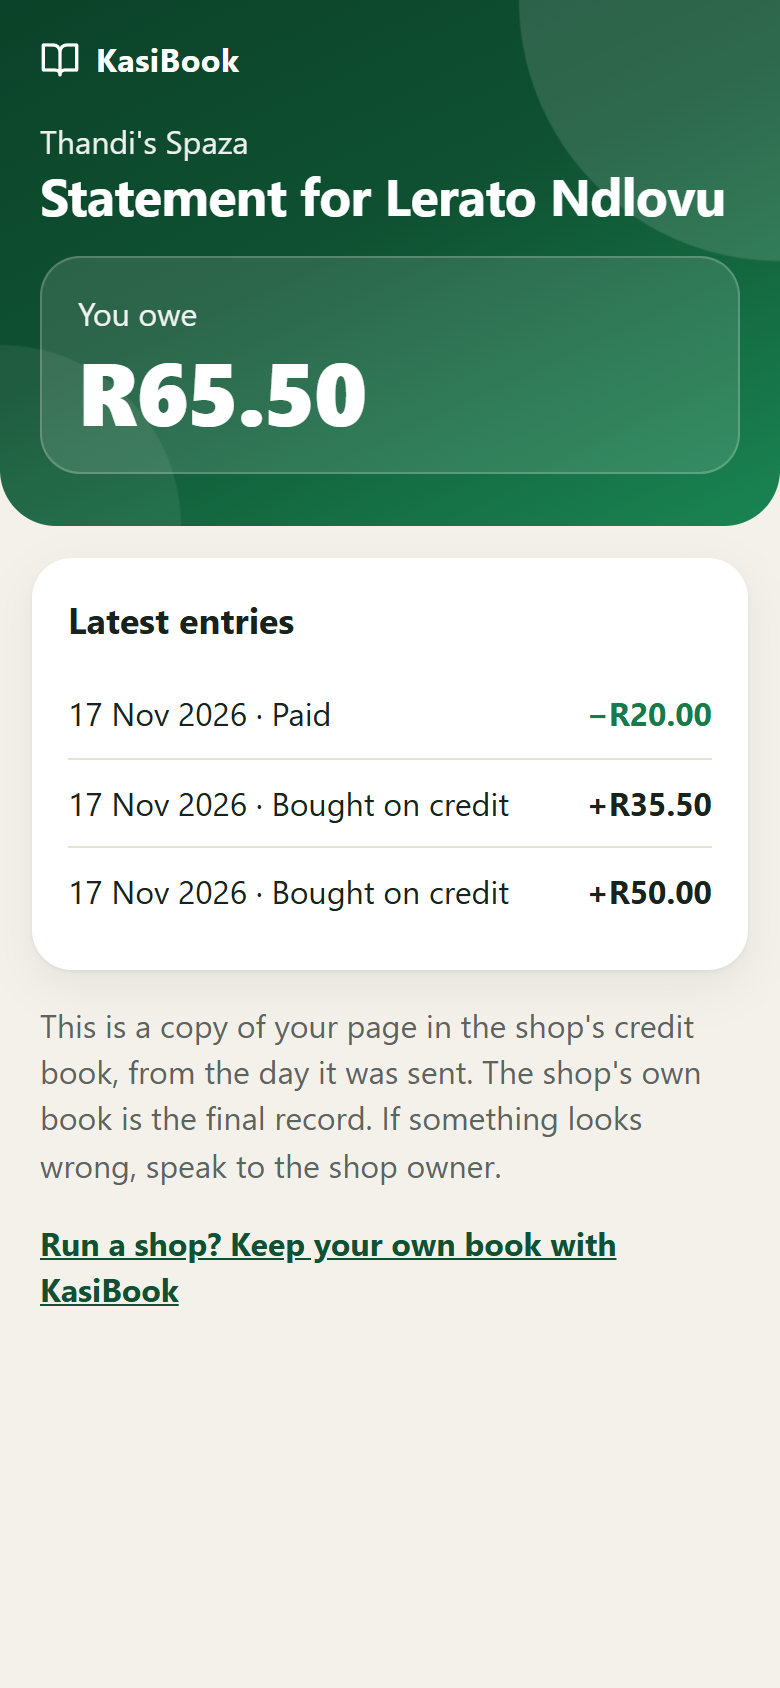
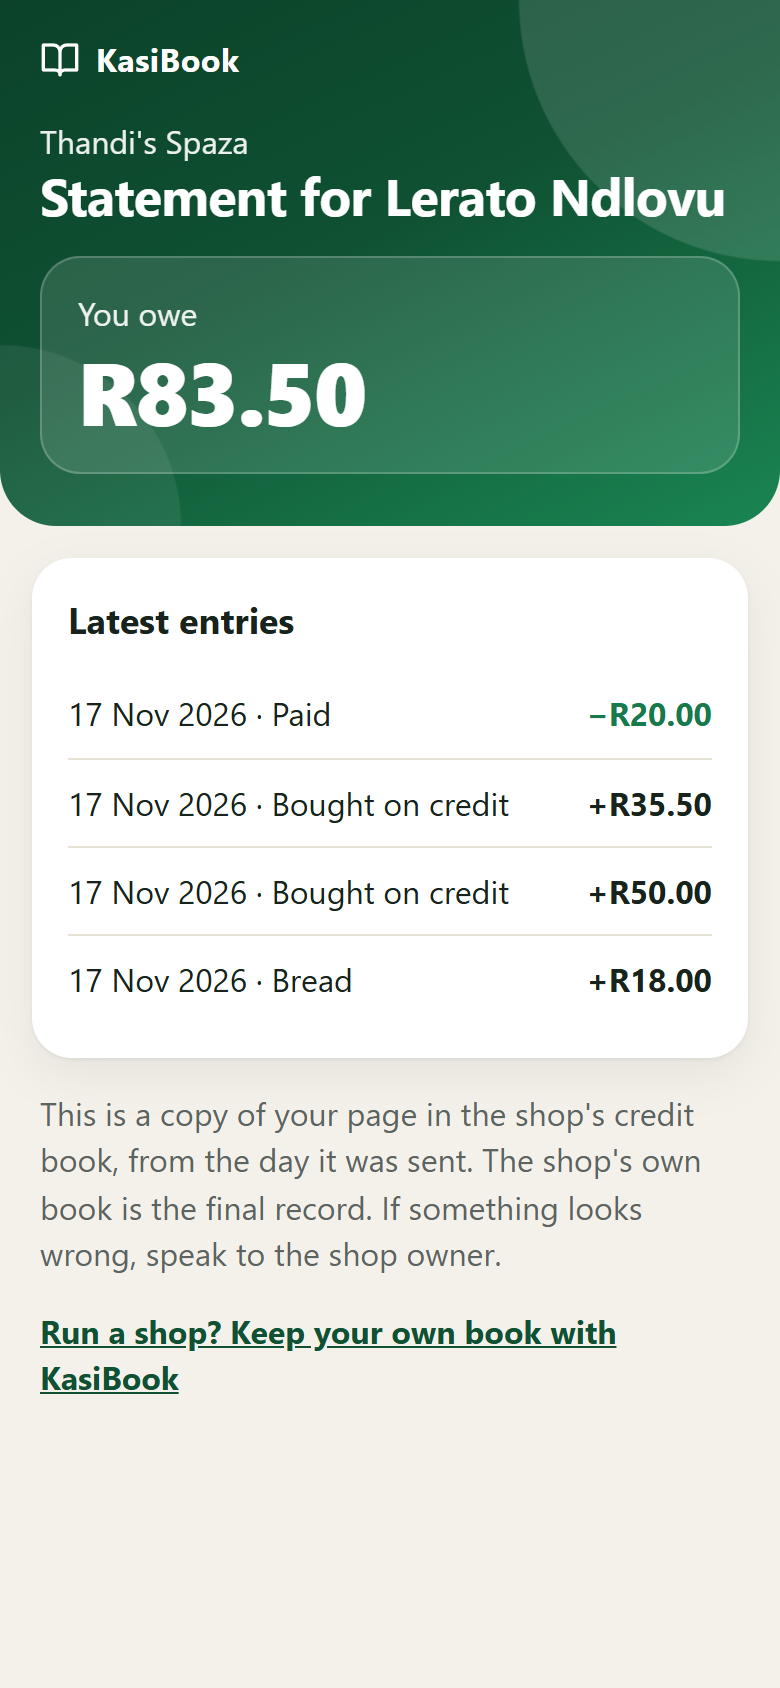
Add one-tap items, quick actions on each customer, filters and weekly numbers

Changed region(s): [[0.0308, 0.5545, 0.9846, 0.8318], [0.1538, 0.2156, 0.3077, 0.2464]]

diff --git a/index.html b/index.html
@@ -31,9 +31,10 @@ button, a { -webkit-tap-highlight-color: transparent; }
 .shop { display: flex; align-items: center; gap: 10px; min-height: 44px; padding: 0; border: 0; background: none; color: #fff; font-size: 26px; font-weight: 800; text-align: left; cursor: pointer; }
 .hero { margin-top: 14px; padding: 16px 18px; border: 1px solid rgba(255, 255, 255, .2); border-radius: 20px; background: rgba(255, 255, 255, .12); }
 .total { font-size: 44px; font-weight: 800; line-height: 1.15; letter-spacing: -1px; margin: 2px 0 8px; }
-.pills { display: flex; flex-wrap: wrap; gap: 8px; }
-.pill { padding: 3px 12px; border-radius: 99px; background: rgba(255, 255, 255, .2); font-size: 14px; font-weight: 600; }
-.pill.warn { background: #fbd5d0; color: #8a1c12; }
+.kpis { display: grid; grid-template-columns: repeat(3, 1fr); gap: 8px; padding-top: 12px; border-top: 1px solid rgba(255, 255, 255, .22); }
+.kpis strong { display: block; font-size: 16px; white-space: nowrap; }
+.kpis span { display: block; font-size: 13px; line-height: 1.25; opacity: .92; }
+.banner { display: flex; align-items: center; gap: 10px; margin: 16px 16px 0; padding: 12px 16px; border-radius: 16px; background: #fdf0c8; color: #5e4100; font-size: 15px; font-weight: 600; line-height: 1.3; }
 .back { display: inline-flex; align-items: center; gap: 6px; min-height: 44px; margin-bottom: 4px; color: #fff; font-weight: 600; text-decoration: none; }
 .top .link { padding-left: 0; color: #fff; font-weight: 600; }
 .top .badge { display: inline-block; }
@@ -69,7 +70,7 @@ button, a { -webkit-tap-highlight-color: transparent; }
 .empty { color: var(--muted); }
 .list { list-style: none; padding: 0; overflow: hidden; }
 .list li:not([hidden]) + li, .history li + li { border-top: 1px solid var(--line); }
-.row { display: flex; align-items: center; gap: 14px; min-height: 72px; padding: 14px 12px 14px 16px; color: inherit; text-decoration: none; }
+.row { display: flex; align-items: center; gap: 14px; min-height: 68px; padding: 14px 12px 10px 16px; color: inherit; text-decoration: none; }
 .row:active, .tile:active { background: #f3f0e8; }
 .row > .icon { color: #9aa29c; }
 .avatar { flex: none; display: grid; place-items: center; width: 44px; height: 44px; border-radius: 50%; background: #e3f1e8; color: var(--green); font-weight: 800; }
@@ -83,6 +84,17 @@ button, a { -webkit-tap-highlight-color: transparent; }
 .search { position: relative; margin: 16px 16px 0; }
 .search .icon { position: absolute; left: 16px; top: 17px; color: var(--muted); }
 .search input { margin: 0; padding-left: 48px; border-color: transparent; box-shadow: var(--shadow); }
+.filters { display: flex; gap: 8px; margin: 12px 16px 0; padding-bottom: 2px; overflow-x: auto; }
+.filter { flex: none; min-height: 40px; padding: 0 14px; border: 0; border-radius: 99px; background: #fff; box-shadow: var(--shadow); color: var(--muted); font-size: 15px; font-weight: 700; cursor: pointer; }
+.filter[aria-pressed="true"] { background: var(--green); color: #fff; }
+.bought { margin: -8px 16px 0 74px; overflow: hidden; color: var(--muted); font-size: 14px; text-overflow: ellipsis; white-space: nowrap; }
+.acts { display: flex; gap: 8px; padding: 8px 16px 14px; }
+.act { display: inline-flex; align-items: center; gap: 6px; min-height: 42px; padding: 0 14px; border-radius: 99px; background: #eaf2ec; color: var(--green); font-size: 15px; font-weight: 700; text-decoration: none; white-space: nowrap; }
+.act.wa { background: #25d366; color: #06301a; }
+.items { display: grid; grid-template-columns: repeat(3, 1fr); gap: 10px; margin-bottom: 18px; }
+.item { display: flex; flex-direction: column; align-items: center; gap: 2px; padding: 10px 4px; border: 2px solid var(--line); border-radius: 15px; background: #fff; font-size: 14px; font-weight: 700; line-height: 1.25; cursor: pointer; }
+.item span { font-size: 24px; }
+.item small { color: var(--muted); font-size: 14px; font-weight: 600; }
 
 /* Customer */
 .tabs { display: grid; grid-template-columns: 1fr 1fr; margin-bottom: 18px; padding: 4px; border-radius: 15px; background: #edeee8; }
@@ -98,7 +110,7 @@ input:focus { border-color: var(--green); outline: 0; }
 .btn.primary { background: var(--green); color: #fff; box-shadow: 0 6px 16px rgba(15, 81, 50, .25); }
 .btn.ghost { margin-top: 10px; border-color: transparent; background: #eaf2ec; }
 .btn.whatsapp { width: auto; margin: 16px 16px 0; border-color: #25d366; background: #25d366; color: #06301a; box-shadow: 0 6px 16px rgba(37, 211, 102, .3); }
-.chip:active, .btn:active, .tile:active { transform: scale(.97); }
+.chip:active, .btn:active, .tile:active, .item:active, .act:active { transform: scale(.97); }
 .pair { display: grid; grid-template-columns: 1fr 1fr; gap: 10px; }
 .error { margin-bottom: 10px; color: #a3190d; font-size: 16px; font-weight: 600; }
 .error:empty { display: none; }
@@ -160,6 +172,15 @@ function waNumber(phone) {
 
 const balance = (customer) => customer.entries.reduce((sum, entry) => sum + entry.c, 0);
 
+// Money paid back by all customers in the last few days.
+const paidSince = (customers, days, now = Date.now()) =>
+  customers.flatMap((customer) => customer.entries).reduce((sum, entry) => sum + (entry.c < 0 && entry.t >= now - days * DAY ? -entry.c : 0), 0);
+
+// The last three named items a customer bought, newest first.
+const recentItems = (customer) => customer.entries.filter((entry) => entry.n).slice(-3).reverse().map((entry) => entry.n).join(" · ");
+
+const daysToMonthEnd = (now = new Date()) => new Date(now.getFullYear(), now.getMonth() + 1, 0).getDate() - now.getDate();
+
 // Payments settle the oldest sales first. Returns the age of the oldest unpaid sale.
 function daysOwing(customer, now = Date.now()) {
   const unpaid = [];
@@ -178,7 +199,7 @@ function daysOwing(customer, now = Date.now()) {
 
 // A statement travels inside the link itself, so no server ever sees it.
 function encodeStatement(shop, customer) {
-  const data = { s: shop, n: customer.name, b: balance(customer), e: customer.entries.slice(-12).map((entry) => [entry.t, entry.c]) };
+  const data = { s: shop, n: customer.name, b: balance(customer), e: customer.entries.slice(-12).map((entry) => (entry.n ? [entry.t, entry.c, entry.n] : [entry.t, entry.c])) };
   const bytes = new TextEncoder().encode(JSON.stringify(data));
   return btoa(String.fromCharCode(...bytes)).replace(/\+/g, "-").replace(/\//g, "_").replace(/=+$/, "");
 }
@@ -192,7 +213,7 @@ function decodeStatement(text) {
     const data = JSON.parse(new TextDecoder().decode(Uint8Array.from(binary, (ch) => ch.charCodeAt(0))));
     if (typeof data.s !== "string" || typeof data.n !== "string" || !Number.isFinite(data.b) || !Array.isArray(data.e)) return null;
     const entries = data.e.filter((e) => Array.isArray(e) && Number.isFinite(e[0]) && Number.isFinite(e[1])).slice(0, 12);
-    return { shop: data.s.slice(0, 40), name: data.n.slice(0, 40), balance: clampCents(data.b), entries: entries.map(([t, c]) => ({ t, c: clampCents(c) })) };
+    return { shop: data.s.slice(0, 40), name: data.n.slice(0, 40), balance: clampCents(data.b), entries: entries.map(([t, c, n]) => ({ t, c: clampCents(c), ...(typeof n === "string" && { n: n.slice(0, 20) }) })) };
   } catch {
     return null;
   }
@@ -205,13 +226,13 @@ const newId = () => Date.now().toString(36) + Math.random().toString(36).slice(2
 function sampleBook() {
   const now = Date.now();
   // Fixed ids, so reloading on a sample customer's page stays on that page.
-  const sample = (name, rows) => ({ id: "sample-" + name.split(" ")[0].toLowerCase(), name, phone: "", sample: true, entries: rows.map(([daysAgo, c]) => ({ t: now - daysAgo * DAY, c })) });
+  const sample = (name, rows) => ({ id: "sample-" + name.split(" ")[0].toLowerCase(), name, phone: "", sample: true, entries: rows.map(([daysAgo, c, n]) => ({ t: now - daysAgo * DAY, c, ...(n && { n }) })) });
   return {
     shop: "Thandi's Spaza",
     customers: [
-      sample("Nomsa Khumalo", [[9, 12000], [5, 8500], [2, -2000]]),
-      sample("Tshepo Mokoena", [[46, 25000], [30, 9000]]),
-      sample("Sibusiso Dlamini", [[18, 9500]]),
+      sample("Nomsa Khumalo", [[9, 12000, "Maize meal and oil"], [5, 8500, "Electricity"], [2, -2000]]),
+      sample("Tshepo Mokoena", [[46, 25000, "Groceries"], [30, 9000, "Airtime and bread"]]),
+      sample("Sibusiso Dlamini", [[18, 9500, "Paraffin"]]),
     ],
   };
 }
@@ -265,7 +286,11 @@ const ICONS = {
   right: "M9 18l6-6-6-6",
   left: "M19 12H5 M12 19l-7-7 7-7",
   edit: "M12 20h9 M16.5 3.5a2.121 2.121 0 0 1 3 3L7 19l-4 1 1-4L16.5 3.5z",
+  calendar: "M19 4H5a2 2 0 0 0-2 2v14a2 2 0 0 0 2 2h14a2 2 0 0 0 2-2V6a2 2 0 0 0-2-2z M16 2v4 M8 2v4 M3 10h18",
 };
+
+// One-tap items. The prices are examples only: every shop sets its own, and any amount can be typed.
+const ITEMS = [["🍞", "Bread", 1800], ["🌽", "Maize meal", 4200], ["🥛", "Milk", 3400], ["📱", "Airtime", 2000], ["⚡", "Electricity", 5000], ["🛢", "Cooking oil", 3800]];
 
 function icon(name, size = 24) {
   const svg = document.createElementNS("http://www.w3.org/2000/svg", "svg");
@@ -294,20 +319,30 @@ function ageBadge(customer) {
   return el("span", { class: "badge" + (days >= 30 ? " late" : days >= 14 ? " due" : "") }, text);
 }
 
-// One customer in a list. Tapping it opens their page, ready for a sale or a payment.
+// One customer in a list: who they are, what they bought, and one-tap actions.
 function customerRow(customer, intent) {
-  return el("li", {}, el("a", { class: "row", href: "#c=" + customer.id, onclick: () => { mode = intent === "paid" ? "paid" : "sale"; } },
-    el("span", { class: "avatar", "aria-hidden": "true" }, [...customer.name][0].toUpperCase()),
-    el("span", { class: "who" }, el("strong", {}, customer.name), ageBadge(customer)),
-    el("span", { class: "amt" }, rand(balance(customer))),
-    icon("right", 20)));
+  const owed = balance(customer);
+  const bought = recentItems(customer);
+  const page = "#c=" + customer.id;
+  const as = (value) => () => { mode = value; };
+  return el("li", {},
+    el("a", { class: "row", href: page, onclick: as(intent === "paid" ? "paid" : "sale") },
+      el("span", { class: "avatar", "aria-hidden": "true" }, [...customer.name][0].toUpperCase()),
+      el("span", { class: "who" }, el("strong", {}, customer.name), ageBadge(customer)),
+      el("span", { class: "amt" }, rand(owed)),
+      icon("right", 20)),
+    bought && el("p", { class: "bought" }, bought),
+    el("div", { class: "acts" },
+      el("a", { class: "act", href: page, onclick: as("sale"), "aria-label": `Add credit for ${customer.name}` }, "+ Credit"),
+      owed > 0 && el("a", { class: "act", href: page, onclick: as("paid"), "aria-label": `Record a payment from ${customer.name}` }, "✓ Paid"),
+      owed > 0 && el("a", { class: "act wa", href: whatsappLink(customer), target: "_blank", rel: "noopener", "aria-label": `Remind ${customer.name} on WhatsApp` }, icon("chat", 16), "Remind")));
 }
 
 function historyList(entries) {
   if (!entries.length) return el("p", { class: "empty" }, "Nothing written in the book yet.");
   return el("ul", { class: "history" }, [...entries].reverse().map((entry) =>
     el("li", {},
-      el("span", {}, `${dateText(entry.t)} · ${entry.c > 0 ? "Bought on credit" : "Paid"}`),
+      el("span", {}, `${dateText(entry.t)} · ${entry.c > 0 ? entry.n || "Bought on credit" : "Paid"}`),
       el("strong", { class: entry.c > 0 ? "" : "paid" }, (entry.c > 0 ? "+" : "−") + rand(Math.abs(entry.c))))));
 }
 
@@ -368,15 +403,15 @@ function customerForm(customer) {
   });
 }
 
-function record(customer, cents, error) {
+function record(customer, cents, error, item) {
   const owed = balance(customer);
   if (cents < 0 && -cents > owed) { error.textContent = `${customer.name} only owes ${rand(owed)}.`; return; }
   if (owed + cents > MAX_CENTS) { error.textContent = `One customer can owe at most ${rand(MAX_CENTS)}.`; return; }
-  const entry = { t: Date.now(), c: cents };
+  const entry = { t: Date.now(), c: cents, ...(item && { n: item }) };
   customer.entries.push(entry);
   save();
   render();
-  toast(cents > 0 ? `Added ${rand(cents)} to ${customer.name}` : `${customer.name} paid ${rand(-cents)}`, () => {
+  toast(cents > 0 ? `Added ${item ? item + " " : ""}${rand(cents)} to ${customer.name}` : `${customer.name} paid ${rand(-cents)}`, () => {
     customer.entries.splice(customer.entries.indexOf(entry), 1);
     save();
     render();
@@ -446,7 +481,9 @@ function welcomeScreen() {
 function homeScreen() {
   const owing = book.customers.filter((customer) => balance(customer) > 0);
   const total = owing.reduce((sum, customer) => sum + balance(customer), 0);
-  const late = owing.filter((customer) => daysOwing(customer) >= 30).length;
+  const overdue = owing.filter((customer) => daysOwing(customer) >= 30).reduce((sum, customer) => sum + balance(customer), 0);
+  const left = daysToMonthEnd();
+  const kpi = (value, label) => el("p", {}, el("strong", {}, value), el("span", {}, label));
   const followUp = [...owing].sort((a, b) => daysOwing(b) - daysOwing(a)).slice(0, 3);
   const hour = new Date().getHours();
   const tile = (target, iconName, tone, title, text) =>
@@ -462,9 +499,12 @@ function homeScreen() {
       el("div", { class: "hero" },
         el("p", { class: "label" }, "Customers owe you"),
         el("p", { class: "total" }, rand(total)),
-        el("p", { class: "pills" },
-          el("span", { class: "pill" }, `${owing.length} of ${book.customers.length} customers owing`),
-          late > 0 && el("span", { class: "pill warn" }, `${late} over 30 days`)))),
+        el("div", { class: "kpis" },
+          kpi(`${owing.length} of ${book.customers.length}`, "customers owing"),
+          kpi(rand(overdue), "over 30 days"),
+          kpi(rand(paidSince(book.customers, 7)), "paid this week")))),
+    owing.length > 0 && el("p", { class: "banner" }, icon("calendar", 20),
+      `${left ? `Month end is in ${left} day${left === 1 ? "" : "s"}.` : "Today is month end."} A good time to send reminders.`),
     el("div", { class: "section" }, el("h2", {}, "What would you like to do?")),
     el("nav", { class: "tiles", "aria-label": "Main actions" },
       tile("#list=sale", "bag", "", "Sold on credit", "Write a sale in the book"),
@@ -485,14 +525,35 @@ function homeScreen() {
 function listScreen(intent) {
   const customers = [...book.customers].sort((a, b) => balance(b) - balance(a));
   const rows = customers.map((customer) => customerRow(customer, intent));
-  const search = el("input", { id: "search", type: "search", autocomplete: "off", placeholder: "Search by name", "aria-label": "Search customers by name",
-    oninput: () => rows.forEach((row, i) => { row.hidden = !customers[i].name.toLowerCase().includes(search.value.trim().toLowerCase()); }) });
+  const monthOf = (t) => new Date(t).getFullYear() * 12 + new Date(t).getMonth();
+  const filters = [
+    ["All", () => true],
+    ["Over 30 days", (customer) => balance(customer) > 0 && daysOwing(customer) >= 30],
+    ["Bought this month", (customer) => customer.entries.some((entry) => entry.c > 0 && monthOf(entry.t) === monthOf(Date.now()))],
+  ];
+  let wanted = filters[0][1];
+  const none = el("p", { class: "note", hidden: true }, "No customers match.");
+  const show = () => {
+    const text = search.value.trim().toLowerCase();
+    rows.forEach((row, i) => { row.hidden = !(wanted(customers[i]) && customers[i].name.toLowerCase().includes(text)); });
+    none.hidden = rows.some((row) => !row.hidden);
+  };
+  const search = el("input", { id: "search", type: "search", autocomplete: "off", placeholder: "Search by name", "aria-label": "Search customers by name", oninput: show });
+  const pills = filters.map(([label, test], i) => el("button", { class: "filter", "aria-pressed": String(i === 0), onclick: () => {
+    wanted = test;
+    pills.forEach((pill, j) => pill.setAttribute("aria-pressed", String(i === j)));
+    show();
+  } }, `${label} (${customers.filter(test).length})`));
   return el("div", {},
     el("header", { class: "top" },
       el("a", { class: "back", href: "#" }, icon("left", 20), "Home"),
       el("h1", { tabindex: "-1" }, { sale: "Who bought on credit?", paid: "Who paid you?" }[intent] ?? "Who owes you"),
       el("p", { class: "label", style: "margin-top:6px" }, customers.length ? "Tap a name to open their page." : "No customers in your book yet.")),
-    customers.length > 0 && [el("div", { class: "search" }, icon("search", 20), search), el("ul", { class: "list" }, rows)],
+    customers.length > 0 && [
+      el("div", { class: "search" }, icon("search", 20), search),
+      el("div", { class: "filters" }, pills),
+      el("ul", { class: "list" }, rows),
+      none],
     el("div", { class: "bar" }, el("button", { class: "btn primary", onclick: () => customerForm() }, icon("userPlus", 20), "Add a new customer")));
 }
 
@@ -522,7 +583,12 @@ function customerScreen(customer) {
         ageBadge(customer))),
     el("section", { class: "card" },
       el("div", { class: "tabs" }, tab("sale", "Sold on credit"), tab("paid", "Got paid", owed <= 0)),
-      el("h2", {}, paying ? "How much did they pay?" : "How much did they buy?"),
+      !paying && [
+        el("h2", {}, "What did they buy?"),
+        el("div", { class: "items" }, ITEMS.map(([emoji, name, cents]) =>
+          el("button", { class: "item", onclick: () => record(customer, cents, error, name) },
+            el("span", { "aria-hidden": "true" }, emoji), name, el("small", {}, "R" + cents / 100))))],
+      el("h2", {}, paying ? "How much did they pay?" : "Or tap an amount"),
       el("div", { class: "chips" }, [10, 20, 50, 100].map((rands) =>
         el("button", { class: "chip", onclick: () => record(customer, sign * rands * 100, error) }, (paying ? "R" : "+R") + rands))),
       el("form", { onsubmit: typed },
@@ -600,6 +666,9 @@ if (location.search === "?test") {
   console.assert(balance(sipho) === 3000 && daysOwing(sipho, 20 * DAY) === 10, "balance and daysOwing");
   console.assert(decodeStatement(encodeStatement("Thandi's Spaza", sipho)).balance === 3000, "statement link");
   console.assert(decodeStatement("not a statement") === null, "bad statement link");
+  console.assert(paidSince([sipho], 7, 12 * DAY) === 5000 && paidSince([sipho], 7, 30 * DAY) === 0, "paidSince");
+  console.assert(recentItems({ entries: [{ c: 1, n: "Bread" }, { c: 1 }, { c: 1, n: "Milk" }] }) === "Milk · Bread", "recentItems");
+  console.assert(daysToMonthEnd(new Date(2026, 10, 17)) === 13, "daysToMonthEnd");
   console.log("KasiBook self-check finished");
 }
 </script>

diff --git a/README.md b/README.md
@@ -25,8 +25,8 @@ This is a large part of everyday trade. About 150,000 spaza shops serve about 11
 
 The home screen greets the owner and asks one question: "What would you like to do?" Four big buttons answer it: **Sold on credit**, **Got paid**, **Who owes me**, **Add a customer**.
 
-1. **Record in two taps.** Choose the customer, tap `+R10`, `+R20`, `+R50` or `+R100`. Or type any amount. Payments work the same way, and every entry can be undone.
-2. **See who owes what.** The total owed is at the top, with a "Follow up first" list of who has owed the longest. Each customer has a label such as "Owing for 46 days" that turns amber after two weeks and red after a month.
+1. **Record in two taps.** Choose the customer, then tap what they bought (Bread, Maize meal, Milk, Airtime, Electricity, Cooking oil) or an amount such as `+R50`. Or type any amount. Payments work the same way, and every entry can be undone. Every customer in a list also has **Credit**, **Paid** and **Remind** buttons, so the common jobs are one tap from the home screen.
+2. **See who owes what.** The total owed is at the top, next to how much is over 30 days old and how much was paid back this week. Below it is a "Follow up first" list of who has owed the longest. Each customer has a label such as "Owing for 46 days" that turns amber after two weeks and red after a month.
 3. **Remind on WhatsApp.** One button opens WhatsApp with a polite message already written, including the balance.
 4. **The customer sees the same book.** The message carries a link to the customer's own statement: every sale, every payment, the balance. Both sides hold the same record, so there is nothing to argue about.
 
@@ -46,6 +46,7 @@ Not sure yet? Tap **Try it with sample customers** on the welcome screen. Tap **
 - **Statements with no server.** A customer's statement is packed into the link itself. Opening the link unpacks it on the customer's phone.
 - **WhatsApp with no API.** Reminders use an ordinary `wa.me` link. Local numbers such as `082 123 4567` are converted to the international format WhatsApp needs.
 - **Money is exact.** Amounts are stored as whole cents, so totals never drift.
+- **Example prices.** The prices on the item buttons are examples for the demo. Every shop charges its own prices, and any amount can be typed.
 
 | File | Job |
 |---|---|
